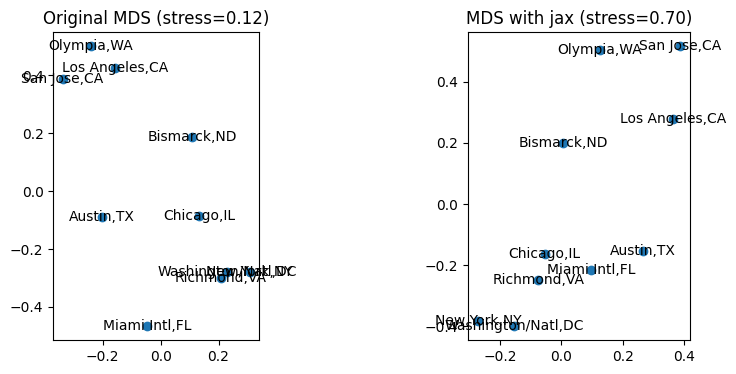
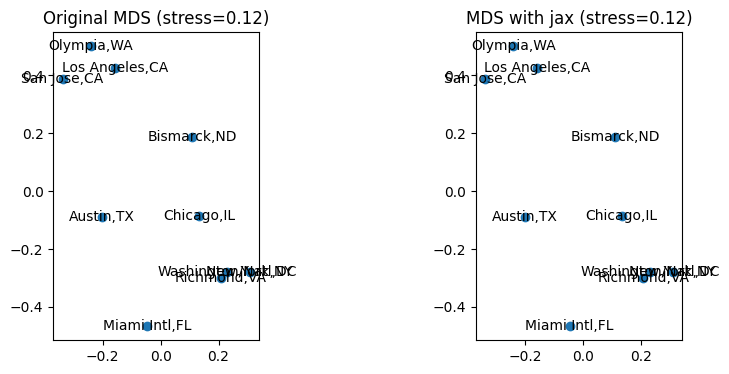
test MAP2 with swiss roll dataset

diff --git a/dataset.py b/dataset.py
@@ -4,16 +4,20 @@ import gzip
 
 from functools import partial
 import numpy as np
+from scipy.sparse.construct import random
 from sklearn import datasets
 from sklearn.utils import shuffle
 from sklearn.preprocessing import StandardScaler
 from sklearn.decomposition import PCA
 from scipy.spatial.distance import pdist, squareform
+from sklearn.utils.validation import check_random_state
 
 from plot import generate_stacked_svg
 
 
 DISTANCE_DATASET = ["cities_us_toy", "cities_us", "qpcr"]
+ARTIFICIAL_DATASET = ["swiss_roll"]
+
 ALWAYS_REGENERATE_SVG = True
 
 
@@ -25,20 +29,37 @@ def load_dataset(
     n_samples=None,
     normalize_dists=False,
     missing_pairs=0.0,
+    random_state=42,
 ):
     if dataset_name in DISTANCE_DATASET:
         dists, labels, N = load_distance_dataset(dataset_name, data_dir)
+    elif dataset_name in ARTIFICIAL_DATASET:
+        dists, labels, N = load_artifical_dataset(
+            dataset_name, n_samples, random_state=random_state
+        )
     else:
-        dists, labels, N = load_traditional_dataset(dataset_name, std, pca, n_samples)
+        dists, labels, N = load_traditional_dataset(
+            dataset_name, std, pca, n_samples, random_state
+        )
     if normalize_dists:
         dists /= dists.max()
     if 0.0 < missing_pairs < 1.0:
         n_used = int(len(dists) * (1.0 - missing_pairs))
-        dists = np.random.choice(dists, size=n_used, replace=False)
+        dists = np.random.choice(
+            dists, size=n_used, replace=False, random_state=random_state
+        )
     return dists, labels, N
 
 
-def load_traditional_dataset(dataset_name, std=False, pca=None, n_samples=None):
+def load_artifical_dataset(dataset_name, n_samples=100, noise=0.0, random_state=42):
+    load_func = {"swiss_roll": datasets.make_swiss_roll}[dataset_name]
+    X, colors = load_func(n_samples=n_samples, noise=noise, random_state=random_state)
+    return pdist(X, "euclidean"), colors, len(X)
+
+
+def load_traditional_dataset(
+    dataset_name, std=False, pca=None, n_samples=None, random_state=42
+):
     load_func = {
         "iris": datasets.load_iris,
         "wine": datasets.load_wine,
@@ -53,7 +74,7 @@ def load_traditional_dataset(dataset_name, std=False, pca=None, n_samples=None):
 
     # shuffle dataset, set `n_samples=None` to take all data
     X, labels = shuffle(
-        *load_func(return_X_y=True), n_samples=n_samples, random_state=42
+        *load_func(return_X_y=True), n_samples=n_samples, random_state=random_state
     )
     if dataset_name.startswith(("digits", "mnist", "fashion", "fmnist")):
         image_types = ["gray", "color"]
@@ -139,7 +160,9 @@ def _load_fashion_mnist(path, kind="train"):
     return images, labels
 
 
-def load_fashion_mnist(data_dir="./data", reload=False, classes=None, return_X_y=True):
+def load_fashion_mnist(
+    data_dir="./data", reload=False, classes=None, return_X_y=True, random_state=42
+):
     classes_name = "".join(map(str, classes)) if classes is not None else "all"
     in_name = f"{data_dir}/fmnist_samples_{classes_name}_1K.z"
     print(in_name)
@@ -147,7 +170,12 @@ def load_fashion_mnist(data_dir="./data", reload=False, classes=None, return_X_y
         images, labels = _load_fashion_mnist(path=f"{data_dir}/fashion", kind="train")
         if classes is not None:
             indices = [i for i, lbl in enumerate(labels) if lbl in classes]
-            images, labels = shuffle(images[indices], labels[indices], n_samples=1000)
+            images, labels = shuffle(
+                images[indices],
+                labels[indices],
+                n_samples=1000,
+                random_state=random_state,
+            )
             print(np.unique(labels))
         else:
             images, labels = shuffle(images, labels, n_samples=1000)
@@ -159,8 +187,8 @@ def load_fashion_mnist(data_dir="./data", reload=False, classes=None, return_X_y
 if __name__ == "__main__":
     # D, labels, N = load_dataset("cities_us", data_dir="./data", missing_pairs=0.5)
     # D, labels, N = load_qpcr(data_dir="./data")
-    D, labels, N = load_dataset("digits012", data_dir="./data", n_samples=1000)
-    print(labels.shape, D.shape, np.unique(labels))
+    D, labels, N = load_dataset("swiss_roll", data_dir="./data", n_samples=1000)
+    print(labels.shape, D.shape, np.unique(labels)[:20])
 
     # X_train, y_train = load_fashion_mnist(data_dir="./data", reload=False)
     # print(X_train.shape, X_train.min(), X_train.max())

diff --git a/config.py b/config.py
@@ -556,8 +556,8 @@ pre_config = {
             std=False,
             pca=None,
             fixed_points=[
-                (0, 0.5, 2.0),  # New York
-                (6, -0.5, 2.0),  # Olympia
+                # (0, 0.5, 2.0),  # New York
+                # (6, -0.5, 2.0),  # Olympia
                 # TODO test with only one moving point for Olympia
                 # (0, 0.4, 0.3),
                 # (6, -0.4, 0.2),
@@ -565,9 +565,9 @@ pre_config = {
                 # (6, 0.0, -0.4),
             ],
             ### params for MDS-jax
-            epochs_mds=10,
-            learning_rate_mds=10,
-            batch_size_mds=20,
+            # epochs_mds=10,
+            # learning_rate_mds=10,
+            # batch_size_mds=20,
         ),
         "cities_us": dict(
             dataset_name="cities_us",
@@ -619,6 +619,25 @@ pre_config = {
             std=True,  # standardize
             pca=None,
             fixed_points=[],
+        ),
+        "swiss_roll": dict(
+            dataset_name="swiss_roll",
+            n_samples=300,
+            n_components=2,
+            batch_size=0,
+            epochs=100,
+            learning_rate=[2e-11, 2.5e-10, 2.5e-9, 5e-8, 2.5e-7, 2e-6, 1e-7][2],
+            sigma_local=[1e-6, 1e-5, 1e-4, 5e-3, 1e-2, 5e-2, 5e-1][2],
+            # missing_pairs=0.0,
+            random_state=42,
+            std=False,  # digits already in [0, 1]
+            pca=None,
+            fixed_points=[
+                # (0, -1.0, -1.0),
+            ],
+            # epochs_mds=30,
+            # learning_rate_mds=80,
+            # batch_size_mds=1000,
         ),
     },
     "MAP3": {

diff --git a/plot.py b/plot.py
@@ -22,7 +22,7 @@ def plot_losses(all_losses, titles=[], out_name="loss.png"):
     fig, axes = plt.subplots(3, 1, figsize=(6, 6))
     colors = [f"C{i+1}" for i in range(len(all_losses))]
     for ax, loss, title, color in zip(axes, all_losses, titles, colors):
-        ax.plot(loss, c=color)
+        ax.plot(loss[2:], c=color)
         ax.set_title(title)
     fig.tight_layout(pad=0.3)
     fig.savefig(out_name)
@@ -57,7 +57,7 @@ def scatter(Z, Z_std=None, labels=None, title="", ax=None, out_name="Z.png"):
     ax.set_aspect("equal")
     # ax.set_xticks([])
     # ax.set_yticks([])
-    cmap = "tab10" if (labels is not None and len(np.unique(labels)) > 5) else "jet"
+    cmap = "tab10" if (labels is not None and len(np.unique(labels)) <= 10) else "jet"
     marker_default_size = rcParams["lines.markersize"]
 
     p = {} if Z_std is None else {"marker": "+"}

diff --git a/pmds/mds_jax.py b/pmds/mds_jax.py
@@ -77,8 +77,7 @@ def mds(
 
             # unpatch pairwise distances and indices of points in each pair
             dists, pair_indices = list(zip(*batch))
-            i0, i1 = list(zip(*pair_indices))
-            i0, i1 = list(i0), list(i1)
+            i0, i1 = map(jnp.array, zip(*pair_indices))
 
             params = Z[i0], Z[i1]
             loss_batch, grads = loss_and_grads_batched(params, jnp.array(dists))
@@ -86,7 +85,9 @@ def mds(
 
             # update gradient
             grads_Z = jnp.concatenate(grads, axis=0)
-            Z = jax.ops.index_add(Z, i0 + i1, -lr * grads_Z / batch_size)
+            Z = jax.ops.index_add(
+                Z, jnp.concatenate([i0, i1]), -lr * grads_Z / batch_size
+            )
         loss = float(loss / (i + 1))
         print("[DEBUG] MDS-jax: ", epoch, loss)
     return Z

diff --git a/run_pmds.py b/run_pmds.py
@@ -74,7 +74,7 @@ def run_pdms(D, N, args, labels=None):
         batch_size=args.batch_size,
         epochs=args.epochs,
         lr=args.learning_rate,
-        random_state=args.random_state,
+        random_state=args.random_state + 1,
         debug_D_squareform=D_squareform,
         fixed_points=vars(args).get("fixed_points", []),
         sigma_local=vars(args).get("sigma_local", 1e-3)

diff --git a/dash_app/app_logic.py b/dash_app/app_logic.py
@@ -115,6 +115,6 @@ def run_pmds(dataset_name, fixed_points):
         # debug_D_squareform=D_squareform,
         fixed_points=fixed_points,
         sigma_local=vars(args).get("sigma_local", 1e-3),
-        # init_mu=Z_init,
+        init_mu=Z_init,
     )
     return Z

diff --git a/pmds/pmds_MAP2.py b/pmds/pmds_MAP2.py
@@ -13,7 +13,7 @@ from .score import stress, sammonZ
 
 
 EPSILON = 1e-5
-FIXED_SCALE = 1e-3
+FIXED_SCALE = 5e-1
 DISABLE_LOGGING = True
 
 hist = wandb.Histogram
